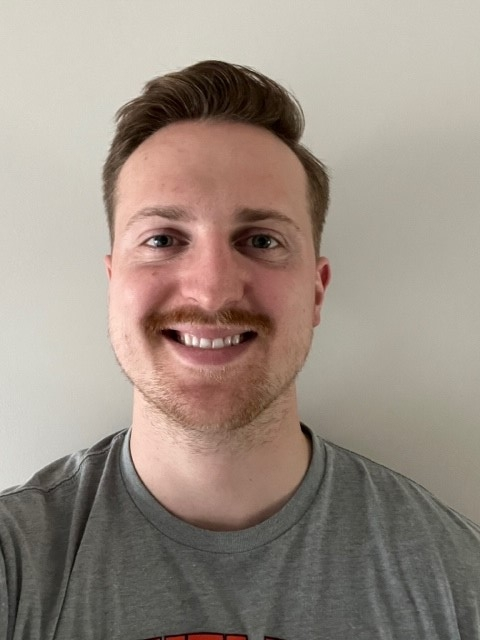
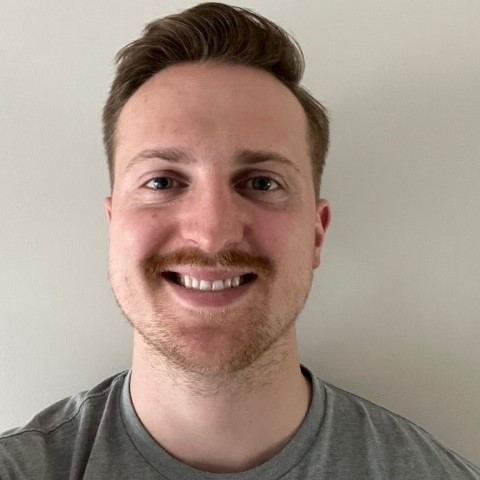
about layout revisions

diff --git a/frontend/src/style/AboutStyle.css b/frontend/src/style/AboutStyle.css
@@ -26,17 +26,26 @@
   left: 52%;
   bottom: 20%;
   font-size: 1;
+  color: #fff;;
   text-align: justify;
 }
 
 .profileCard .profilePhoto {
+  object-fit: cover;
   width: 40%;
   position: absolute;
   height: 70%;
   left: 7%;
   top: 9%;
-}
+  /* aspect-ratio: 1/1; */
+  border-radius: 16px;
 
+}
+.profileCard .socials{
+  
+  width: 80px;
+    height: 80px;
+}
 .profileCard .socials img {
   width: 50px;
   height: 50px;
@@ -51,7 +60,7 @@
   box-shadow: 0px 1px 0px #1a7beb;
   position: relative;
   margin-top: 20px;
-  background-color: cadetblue;
+  background-color: #1565c0;
 }
 .bios .section3 #FA{
   width: 100vh;
@@ -65,7 +74,7 @@
   bottom: 5%;
   left: 10%;
   transform: translateX(-10%);
-  color: rgb(0, 0, 0);
+  color: #fff;
 }
 
 .profileCard .socials {
@@ -77,17 +86,26 @@
   display: flex;
 }
 
-/* Phone views */
-@media only screen and (max-width: 800px) {
+
+
+
+@media only screen and (max-width: 1200px) {
   .bios .profileCard {
     height: 50vh;
     width: 90%;
-    border-radius: 5%;
+    border-radius: 16px;
     margin-left: 5%;
     box-shadow: 0px 1px 0px #1a7beb;
     position: relative;
     margin-top: 20px;
-    background-color: rgb(14, 158, 163);
+    background-color:#1a7beb;
+  }
+  .profileCard .profilePhoto {
+    position: absolute;
+    width: 42%;
+    height: 70%;
+    border-radius: 16px;
+
   }
 
   .profileCard .nametag {
@@ -97,14 +115,56 @@
     left: 15%;
     transform: translateX(-10%);
     width: 90%;
-    color: rgb(0, 0, 0);
+    color: #fff;
   }
   .profileCard .socials {
-    width: 18%;
-    height: 35%;
+    width: 80px;
+    height: 80px;
+    position: absolute;
+    left: 52%;
+    bottom: 1%;
+  }
+  
+  .bios .section1,
+  .bios .section2,
+  .bios .section3 {
+    display: flex;
+    flex-direction: column;
+  }
+  .bios .section3 #FA{
+    width: 90%;
+        
+    }
+}
+
+/* Phone views */
+@media only screen and (max-width: 650px) {
+  .bios .profileCard {
+    height: 50vh;
+    width: 90%;
+    border-radius: 5%;
+    margin-left: 5%;
+    box-shadow: 0px 1px 0px #1a7beb;
+    position: relative;
+    margin-top: 20px;
+    background-color: #1a7beb;
+  }
+
+  .profileCard .nametag {
+    font-size: 2.8rem;
+    position: absolute;
+    bottom: 5%;
+    left: 15%;
+    transform: translateX(-10%);
+    width: 90%;
+    color:#fff;
+  }
+  .profileCard .socials {
+    width: 80px;
+    height: 80px;
     position: absolute;
     left: 80%;
-    bottom: 50%;
+    bottom: 68%;
     display: flex;
     flex-direction: column;
   }
@@ -126,59 +186,15 @@
   }
 
   .profileCard .socials img {
-    width: 75%;
-    height: 100%;
-    box-shadow: 0 0 5px white; 
+    width: 70%;
+   
   }
   .profileCard .profilePhoto {
     position: absolute;
-    width: 70%;
-    height: 70%;
+    width: 60%;
   }
   .bios .section3 #FA{
     width: 90%;
         
     }
-}
-
-@media only screen and (min-width: 801px) and(max-width: 1660px) {
-  .bios .profileCard {
-    height: 50vh;
-    width: 90%;
-    border-radius: 5%;
-    margin-left: 5%;
-    box-shadow: 0px 1px 0px #1a7beb;
-    position: relative;
-    margin-top: 20px;
-    background-color: rgb(14, 158, 163);
-  }
-  .profileCard .profilePhoto {
-    position: absolute;
-    width: 42%;
-    height: 70%;
-  }
-
-  .profileCard .nametag {
-    font-size: 2.8rem;
-    position: absolute;
-    bottom: 5%;
-    left: 15%;
-    transform: translateX(-10%);
-    width: 90%;
-    color: rgb(0, 0, 0);
-  }
-  .profileCard .socials {
-    width: 18%;
-    height: 35%;
-    position: absolute;
-    left: 52%;
-    bottom: 1%;
-  }
-  
-  .bios .section1,
-  .bios .section2,
-  .bios .section3 {
-    display: flex;
-    flex-direction: column;
-  }
 }

diff --git a/frontend/src/components/About.jsx b/frontend/src/components/About.jsx
@@ -1,7 +1,6 @@
 import "../style/AboutStyle.css";
 import githubLogo from "../assets/github-logo.png";
 import linkedInLogo from "../assets/linkedin-logo.png";
-import image3 from "../assets/NeverGiveUp.png";
 import evanKpfp from "../assets/EvanKazcorpfp.jpg";
 import aronLpfp from "../assets/AronLomnerpfp.png";
 import broganRpfp from "../assets/BroganReedpfp.jpg";
@@ -10,7 +9,7 @@ import francApfp from "../assets/Francpfp.jpg";
 
 const About = () => {
   return (
-    <div className="bios" >
+    <div className="bios">
       <div className="section1">
         <div className="profileCard" id="AL">
           <a href="https://www.aronlomner.com/" target="blank">
@@ -147,18 +146,28 @@ const About = () => {
         <div className="profileCard" id="FA">
           <a
             href="https://franalv12.github.io/
-"target="blank"
+"
+            target="blank"
           >
-            <img src={francApfp} alt="Francisco's Porfolio" className="profilePhoto" />
+            <img
+              src={francApfp}
+              alt="Francisco's Porfolio"
+              className="profilePhoto"
+            />
           </a>
           <div className="socials">
             <div>
-              <a
-                href="https://github.com/FranAlv12" target="blank"><img src={githubLogo} alt="Francisco's Github" />
+              <a href="https://github.com/FranAlv12" target="blank">
+                <img src={githubLogo} alt="Francisco's Github" />
               </a>
             </div>
             <div>
-              <a href="https://www.linkedin.com/in/francisco-alvarado-1419522a0/" target="blank"><img src={linkedInLogo} alt="Francisco's LinkedIn" /></a>
+              <a
+                href="https://www.linkedin.com/in/francisco-alvarado-1419522a0/"
+                target="blank"
+              >
+                <img src={linkedInLogo} alt="Francisco's LinkedIn" />
+              </a>
             </div>
           </div>
           <div className="comment-bio">

diff --git a/frontend/src/style/ContactStyle.css b/frontend/src/style/ContactStyle.css
@@ -1,7 +1,6 @@
 .contactform {
   position: absolute;
   left: 36%;
-  /* top: 25%; */
   width: 30vw;
   height: fit-content;
   margin: 1rem;
@@ -20,19 +19,26 @@ h1 {
 input {
   margin: 2vh;
 }
-
-
 .comment-input {
- width: 90%;
- height: 30vh;
-  max-width: 80%;
-  
-  vertical-align: top;
-  resize: none;
+  width: 90%;
+  height: 10em;
+  resize: vertical;
+  font-size: 1.5em;
   text-align: left;
-  font-size: 1.5rem;
+  vertical-align: top;
+ }
 
 
+.comment-input::placeholder {
+  color: #999; 
+}
+
+
+.comment-input:hover,
+.comment-input:focus {
+  border-color: #aaa; 
+  box-shadow: 0 0 5px rgba(0, 0, 0, 0.1);
+  outline: none; 
 }
 
 .inputText {
@@ -40,53 +46,49 @@ input {
   max-width: 60vw;
   height: 3.8vh;
   font-size: 1.5em;
-
 }
 
 label {
   font-size: 1.5rem;
-   
 }
-form{
 
+form {
   margin-left: 2%;
 }
-button {
-  background-color: #084285; 
-  color: #fff; 
-  font-size: 1.5rem; 
-  padding: 10px 20px; 
-  border: none; 
-  border-radius: 5px; 
-  margin-right: 2vw;
-  cursor: pointer; 
-  transition: background-color 0.3s, box-shadow 0.3s; 
 
+button {
+  background-color: #084285;
+  color: #fff;
+  font-size: 1.5rem;
+  padding: 10px 20px;
+  border: none;
+  border-radius: 5px;
+  margin-right: 2vw;
+  cursor: pointer;
+  transition: background-color 0.3s, box-shadow 0.3s;
   box-shadow: 0 0 0 white;
 }
 
 button:hover {
-  background-color: #67b8ff;  
-  box-shadow: 0 0 10px white; 
+  background-color: #67b8ff;
+  box-shadow: 0 0 10px white;
 }
+
 @media only screen and (max-width: 1200px) {
   .contactform {
-    width: 80%; 
-    left: 10%; 
-    padding-bottom:10px ;
+    width: 80%;
+    left: 10%;
+    padding-bottom: 10px;
     height: fit-content;
   }
+
   .inputText {
     width: 70vw;
-  
     height: 3.8vh;
     font-size: 1.5em;
-  
-  }
-  button{
-  height: fit-content;
-
-
   }
 
+  button {
+    height: fit-content;
+  }
 }
